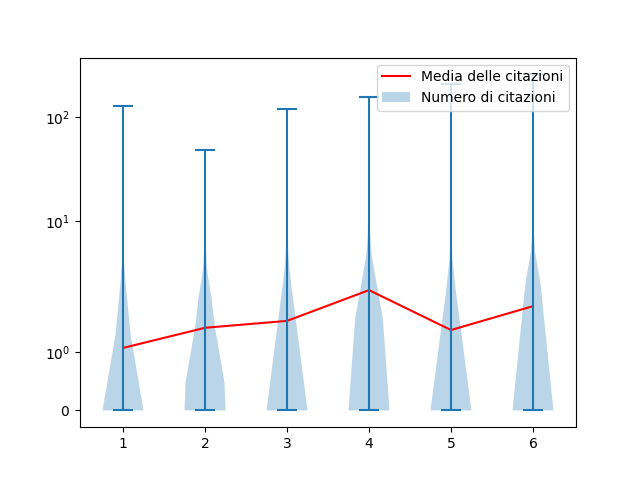
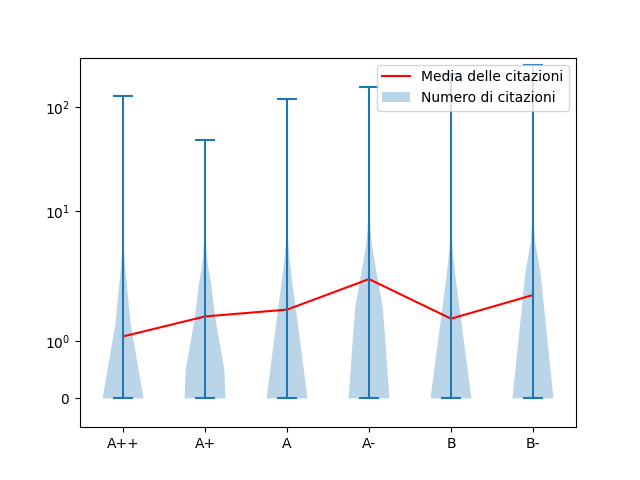
Aggiunta grafico per paper di impatto

diff --git a/chapters/Metriche.tex b/chapters/Metriche.tex
@@ -68,18 +68,26 @@ anche in Tabella~\ref{table:paper-rating-distribution}.
   \label{fig:paper-rating-distribution}
 \end{figure}
 
+\begin{figure}[tb]
+  \centering
+  \includegraphics[width=\linewidth]{paper_rating_distribution_impact.png}
+  \caption{Numero di citazioni di paper di impatto per conferenza}
+  \label{fig:paper-rating-distribution-impact}
+\end{figure}
+
 \begin{table}[tb]
   \centering
-  \begin{tabular}{||l | r ||}
+  \begin{tabular}{||l | r | r ||}
     \hline
-    \textbf{Rating conferenza} & \textbf{Numero di citazioni medio} \\ [0.5ex] 
+    \multirow{2}{*}{\textbf{Rating}} & \multicolumn{2}{| c ||}{\textbf{Numero di citazioni medio}} \\ \cline{2-3}
+     & \textbf{Tutti i paper} & \textbf{Paper di impatto} \\ [0.5ex] 
     \hline\hline
-    A++    & 1.075884 \\ \hline
-    A+     & 1.422904 \\ \hline
-    A      & 1.541459 \\ \hline
-    A-     & 2.191858 \\ \hline
-    B      & 1.384308 \\ \hline
-    B-     & 1.795274 \\ \hline
+    A++    & 1.08 & 72.25 \\ \hline
+    A+     & 1.42 & 45.50 \\ \hline
+    A      & 1.54 & 61.71 \\ \hline
+    A-     & 2.19 & 67.48 \\ \hline
+    B      & 1.38 & 78.32 \\ \hline
+    B-     & 1.80 & 80.41 \\ \hline
   \end{tabular}
   \caption{Numero di citazioni medio per rating}
   \label{table:paper-rating-distribution}
@@ -91,7 +99,7 @@ Dall'immagine è possibile trarre due conclusioni importanti:
         periodo di qualche anno che è stato considerato;
   \item La seconda, invece, è che la distribuzione delle citazioni è molto sbilanciata,
         in quanto ci sono molti paper con poche citazioni e pochi paper che superano
-        le 50 citazioni.
+        le 40 citazioni.
 \end{enumerate}
 
 Queste due conclusioni valgono inoltre per qualsiasi ranking di conferenza,
@@ -100,6 +108,19 @@ Si può quindi dedurre che, in genere, il livello di una conferenza non influenz
 il numero di citazioni ottenute nel breve periodo, con anzi
 un aumento delle citazioni in media per conferenze non top, ovvero con ranking
 da A in giù.
+
+Può essere interessante inoltre guardare ai paper che possiamo definire come
+``d'impatto'', ovvero i pochi paper che superano le 40 citazioni identificati
+dalle conclusioni precedenti. Tale distribuzione è visibile in
+Figura~\ref{fig:paper-rating-distribution-impact} e, similmente a prima,
+è possibile vedere i numeri precisi in
+Tabella~\ref{table:paper-rating-distribution}.
+Guardando il grafico, è possibile notare che i paper con citazioni più alte
+si trovano sulle conferenze di rating più basso, ma questi risultano essere più
+valori rari che si discostano molto dalla media. Sulle conferenze di livello
+più alto, invece, la distribuzione è molto meno sbilanciata: i paper sono più
+concentrati sotto le 150 citazioni, ma in genere la distribuzione di citazioni
+è più equa. Questo si vede chiaramente per le conferenze A++.
 
 \subsection{Media dell'$h$-index per conferenza in base al rating}
 

diff --git a/main.tex b/main.tex
@@ -4,6 +4,7 @@
 \usepackage{amsmath}
 \usepackage{titlesec}
 \usepackage{subcaption}
+\usepackage{multirow}
 
 \newcommand{\todo}[1]{{\color{red} TODO: #1}}
 
